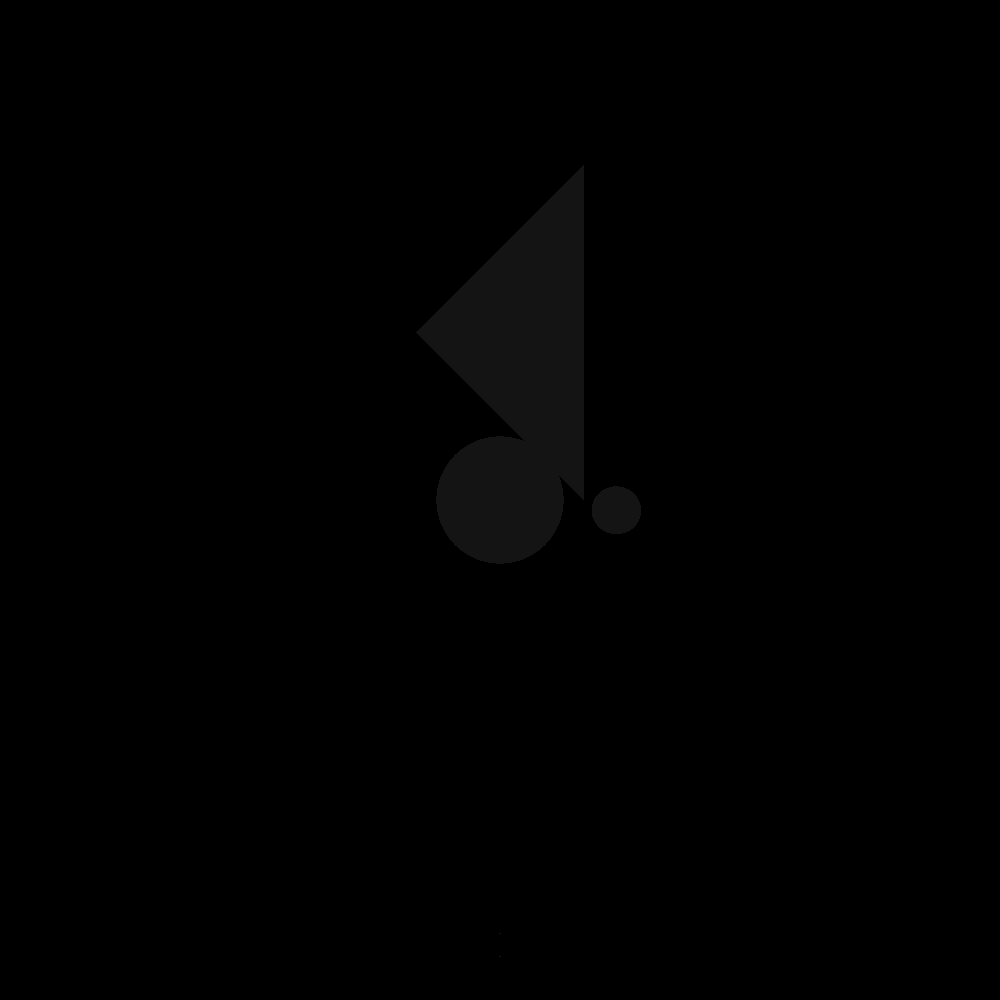
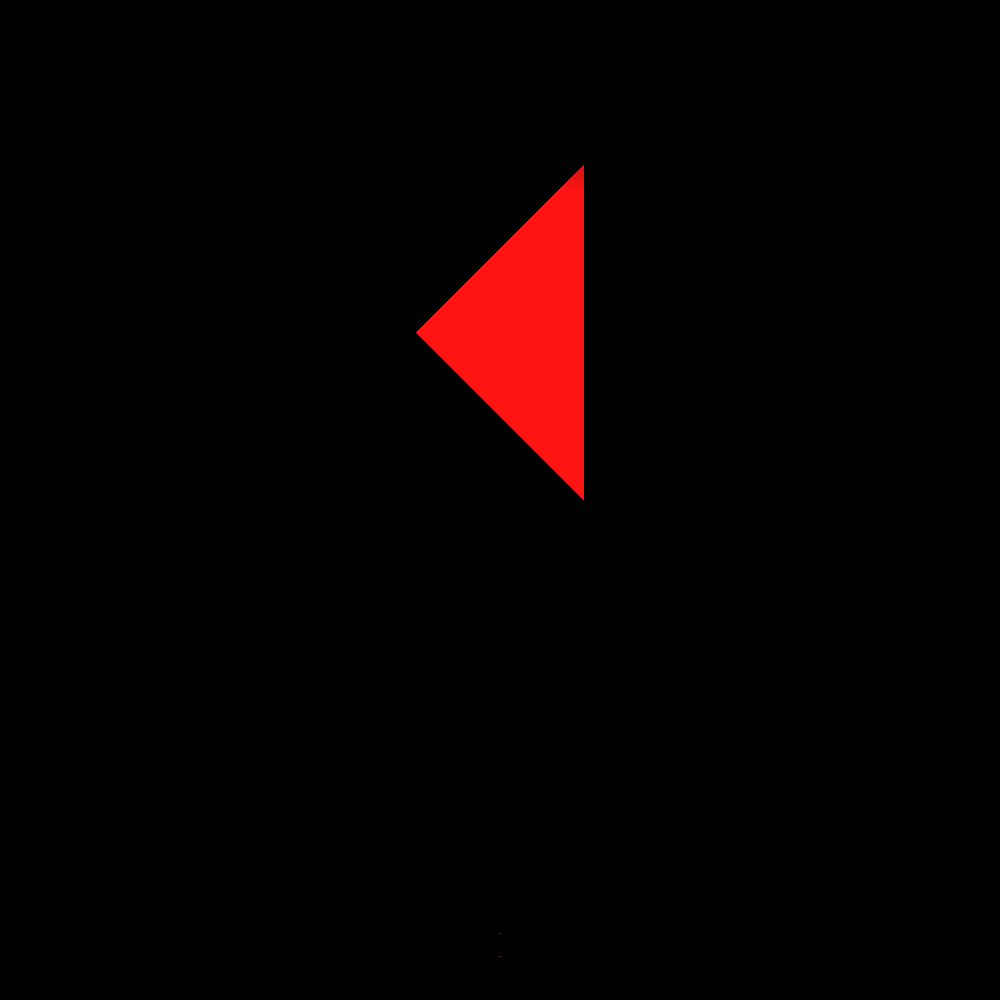
Photon Mapping Works!!
photon mapping works, confirmed..

Changed region(s): [[0.403, 0.155, 0.589, 0.496]]

diff --git a/src/librt/RayTracer.cpp b/src/librt/RayTracer.cpp
@@ -22,7 +22,7 @@
 #include <vector>
 #include <stdlib.h>
 #include <math.h>
-
+#include <time.h> 
 
 
 
@@ -55,7 +55,7 @@ void RayTracer::Run(Scene *pScene, STVector2* imageSize, std::string fName, Rend
 {
 
 
-    this->emitPhotons(pScene,4000, 2);
+    this->emitPhotons(pScene,2000, 4);
     //
     
     this->rayTrace(pScene, imageSize,fName,mode);
@@ -159,9 +159,10 @@ bool RayTracer::photonTrace(Scene *pScene, Photon *photon){
                 return false;
             }else{
                 photon->SetIntersection(*closestIntersection);
-                std::cout<<"::Intersection Found:: "<<photon->GetIntersection().point.x<<","<<photon->GetIntersection().point.y<<","<<photon->GetIntersection().point.z<<"\n";
+                //std::cout<<"::Intersection Found:: "<<photon->GetIntersection().point.x<<","<<photon->GetIntersection().point.y<<","<<photon->GetIntersection().point.z<<"\n";
+                result = true;
             }
-
+           // std::cout<<result<<"result of photonTrace \n";
             return result;
 }
 
@@ -276,7 +277,7 @@ void RayTracer::rayTrace(Scene *pScene, STVector2* imageSize, std::string fName,
 void RayTracer::emitPhotons(Scene *pScene, int nrPhotons, int numBounces){
   
 
-    srand (0);                          //Ensure Same Photons Each Time, should make this settable in setup
+    srand (time(NULL));                          //Ensure Same Photons Each Time, should make this settable in setup
 
 
 //  for (int t = 0; t < nrTypes; t++)            //Initialize Photon Count to Zero for Each Object
@@ -289,8 +290,8 @@ for(int l = 0;l<pScene->GetLightList()->size();l++){ // go through the number of
     int bounces = 1;
 
 
-    STVector3 initDirection = STVector3( rand() % 2 - 1, rand() % 2 - 1, rand() % 2 - 1 );
-   // std::cout<<rand() % 3 - 1<<"\n";
+    STVector3 initDirection = STVector3( -1 + static_cast <float> (rand()) /( static_cast <float> (RAND_MAX/(1-(-1)))), -1 + static_cast <float> (rand()) /( static_cast <float> (RAND_MAX/(1-(-1)))), -1 + static_cast <float> (rand()) /( static_cast <float> (RAND_MAX/(1-(-1)))) );
+    //std::cout<<-1 + static_cast <float> (rand()) /( static_cast <float> (RAND_MAX/(1-(-1))))<<"\n";
 
     initDirection.Normalize();
  
@@ -303,6 +304,9 @@ for(int l = 0;l<pScene->GetLightList()->size();l++){ // go through the number of
     
 
     bool hit = photonTrace(pScene,photon);                          //Trace the Photon's Path
+
+   // std::cout<<hit<<" :boolean value \n";
+
    if (hit == true)
    {
 
@@ -315,7 +319,9 @@ for(int l = 0;l<pScene->GetLightList()->size();l++){ // go through the number of
         hit = photonTrace(pScene,photon);                         //Trace It to Next Location
         photon->currentBounces++;
     }
+        //std::cout<<"found an intersection, lets add it \n";
         pScene->GetPhotons()->push_back(photon);                //once bouncing is done save the photon to the scene
+       // std::cout<<"size:"<<pScene->GetPhotons()->size()<<"\n";
     }
 
   }

diff --git a/src/mainsrc/mainsrc_proj2.cpp b/src/mainsrc/mainsrc_proj2.cpp
@@ -57,7 +57,7 @@ void Setup(void)
 {
     // renderMode = HIT;
     // renderMode = LAMBERTIAN;
-    renderMode = PHOTON;
+    renderMode = PHONG;
 
     // We set the image size here because it makes the most sense.
     imageSize = new STVector2(1000, 1000);
@@ -75,16 +75,16 @@ void Setup(void)
 
     pScene->SetBackgroundColor(RGBR_f(0, 0, 0, 1));
 
-    pScene->AddLight(Light(STVector3(4,1,0), RGBR_f(255, 0, 0, 255), 40, "Light1"));
+    pScene->AddLight(Light(STVector3(0,0,2), RGBR_f(255, 0, 0, 255), 40, "Light1"));
     //pScene->AddLight(Light(STVector3(-1, 0, 1.5), RGBR_f(255, 0, 0, 255), 2, "Light1"));
     // pScene->AddLight(Light(STVector3(-10, 0, -5), RGBR_f(0, 0, 255, 255), 40, "Light2"));
 
-    Sphere* sphere1 = new Sphere(STVector3(1.7, 0.15, -1.15), 0.35, RGBR_f(255, 255, 255, 255));
-    Sphere* sphere2 = new Sphere(STVector3(0, 0, 0), 0.75, RGBR_f(255, 255, 255, 255));
+   // Sphere* sphere1 = new Sphere(STVector3(1.7, 0.15, -1.15), 0.35, RGBR_f(255, 255, 255, 255));
+   // Sphere* sphere2 = new Sphere(STVector3(0, 0, 0), 0.75, RGBR_f(255, 255, 255, 255));
     Triangle* triangle1 = new Triangle(STVector3(0, -3, 0), STVector3(1, -2, 0), STVector3(0, -1, 0), RGBR_f(255, 255, 255, 255));
 
-    pScene->AddSurface(sphere1);
-    pScene->AddSurface(sphere2);
+   // pScene->AddSurface(sphere1);
+   // pScene->AddSurface(sphere2);
     pScene->AddSurface(triangle1);
 
     pRayTracer = new RayTracer();

diff --git a/src/librt/Shader.cpp b/src/librt/Shader.cpp
@@ -74,15 +74,17 @@ RGBR_f Shader::Hit(Intersection *pIntersection, STVector3 *lightDirection, Light
 // Implements a simple red colorer if we hit something.
 RGBR_f Shader::Photon(Intersection *pIntersection, STVector3 *lightDirection, Light *light, Scene* pScene)
 {
-    assert(pIntersection);
-    assert(lightDirection);
+   // assert(pIntersection);
+   // assert(lightDirection);
 
     RGBR_f color = RGBR_f(0,0,0,255);
 
+        //    std::cout<<"PHOTONS:"<<pScene->GetPhotons()->size()<<"\n";
+
     for(int i=0;i<pScene->GetPhotons()->size();i++){
 
-        if((pScene->GetPhotons()->at(i)->GetIntersection().point - pIntersection->point).LengthSq() <= 0.7){
-            color = RGBR_f(255,0,0,255);
+        if((pScene->GetPhotons()->at(i)->GetIntersection().point - pIntersection->point).LengthSq() <= 0.001){
+            color += RGBR_f(5,0,0,255);
         }
 
     }
